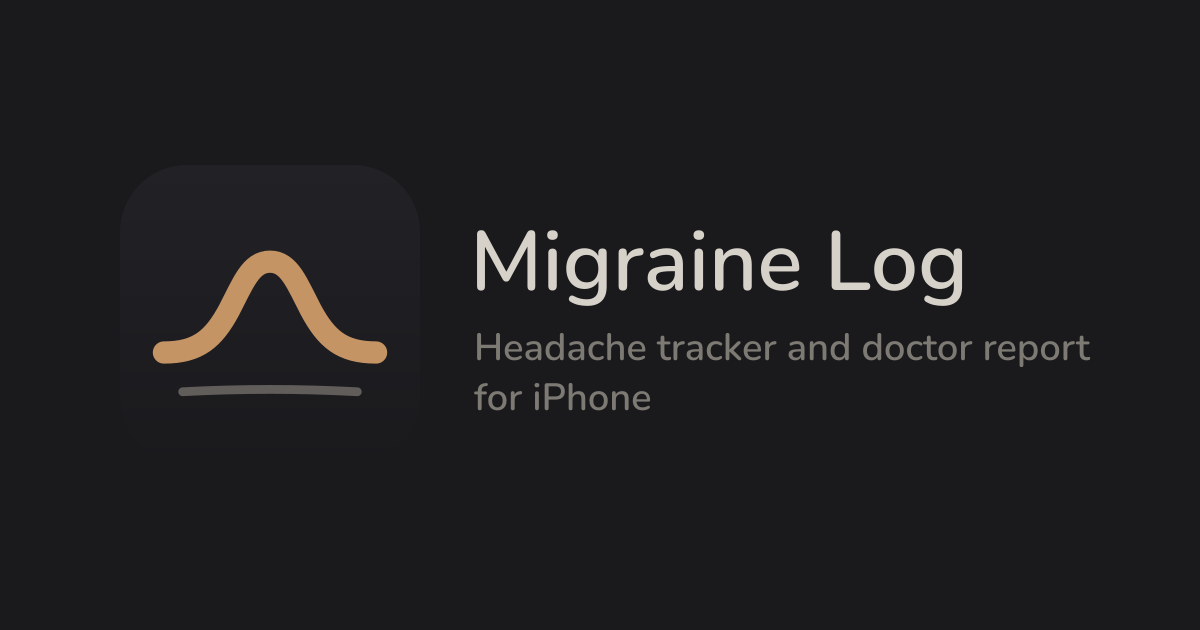
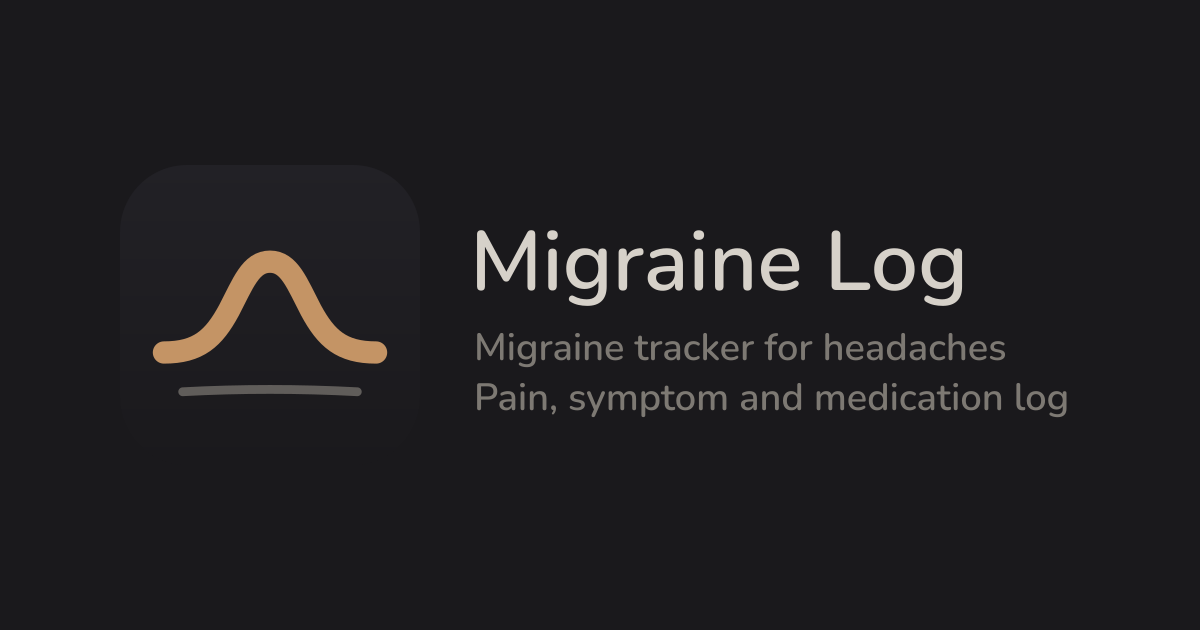
1.0.0 build 1: setup values and the new store name
Fill the Expo projectId, the RevenueCat public iOS key and the ASC app
id. Store name "Migraine Tracker for Headaches", subtitle "Pain, Symptom
& Medication Log", new keywords (98), in store/metadata.md, the website
(title, meta, OG, JSON-LD, App Store link, support and privacy), the OG
image, README and CLAUDE.md. Home screen name stays Migraine Log.

Claude-Session: https://claude.ai/code/session_018oC8ChNyTN1VSWfCEyQFmx

Changed region(s): [[0.4008, 0.6032, 0.8942, 0.6635], [0.4008, 0.5127, 0.925, 0.573]]

diff --git a/docs/index.html b/docs/index.html
@@ -3,8 +3,8 @@
 <head>
 <meta charset="utf-8">
 <meta name="viewport" content="width=device-width, initial-scale=1">
-<title>Migraine Log: Headache Tracker and Doctor Report for iPhone</title>
-<meta name="description" content="Migraine Log is an iPhone headache and migraine tracker. Log an attack in two seconds, see headache days and medication days on a calendar, and bring your doctor a one-page report. Works offline; nothing leaves the phone.">
+<title>Migraine Tracker for Headaches: Pain, Symptom and Medication Log</title>
+<meta name="description" content="Migraine Log is a migraine tracker for headaches on iPhone. Log an attack in two seconds, keep track of pain, symptoms and medications, see headache days on a calendar, and bring your doctor a one-page report. Works offline; nothing leaves the phone.">
 <link rel="canonical" href="https://bkdigitalleads-cmyk.github.io/migrainelog/">
 <link rel="icon" type="image/png" href="icon-512.png">
 <link rel="apple-touch-icon" href="apple-touch-icon.png">
@@ -12,27 +12,28 @@
 <meta name="theme-color" content="#1A191C">
 <meta property="og:type" content="website">
 <meta property="og:site_name" content="Migraine Log">
-<meta property="og:title" content="Migraine Log: Headache Tracker and Doctor Report for iPhone">
-<meta property="og:description" content="Log an attack in two seconds, see your headache days at a glance, and bring your doctor a report they can use. Offline, no account.">
+<meta property="og:title" content="Migraine Tracker for Headaches: Pain, Symptom and Medication Log">
+<meta property="og:description" content="Log an attack in two seconds, keep track of pain, symptoms and medications, see your headache days at a glance, and bring your doctor a report. Offline, no account.">
 <meta property="og:url" content="https://bkdigitalleads-cmyk.github.io/migrainelog/">
 <meta property="og:image" content="https://bkdigitalleads-cmyk.github.io/migrainelog/og-image.png">
-<meta property="og:image:alt" content="The Migraine Log icon, a soft amber wave on a dark tile, next to the words Migraine Log, headache tracker and doctor report for iPhone.">
+<meta property="og:image:alt" content="The Migraine Log icon, a soft amber wave on a dark tile, next to the words Migraine Log, migraine tracker for headaches, pain, symptom and medication log.">
 <meta name="twitter:card" content="summary_large_image">
-<meta name="twitter:title" content="Migraine Log: Headache Tracker and Doctor Report for iPhone">
-<meta name="twitter:description" content="Log an attack in two seconds, see your headache days at a glance, and bring your doctor a report they can use. Offline, no account.">
+<meta name="twitter:title" content="Migraine Tracker for Headaches: Pain, Symptom and Medication Log">
+<meta name="twitter:description" content="Log an attack in two seconds, keep track of pain, symptoms and medications, see your headache days at a glance, and bring your doctor a report. Offline, no account.">
 <meta name="twitter:image" content="https://bkdigitalleads-cmyk.github.io/migrainelog/og-image.png">
-<meta name="twitter:image:alt" content="The Migraine Log icon, a soft amber wave on a dark tile, next to the words Migraine Log, headache tracker and doctor report for iPhone.">
+<meta name="twitter:image:alt" content="The Migraine Log icon, a soft amber wave on a dark tile, next to the words Migraine Log, migraine tracker for headaches, pain, symptom and medication log.">
 <link rel="stylesheet" href="style.css">
 <script type="application/ld+json">
 {
   "@context": "https://schema.org",
   "@type": "SoftwareApplication",
-  "name": "Migraine Log: Headache Tracker",
-  "alternateName": "Migraine Log",
+  "name": "Migraine Tracker for Headaches",
+  "alternateName": ["Migraine Log", "Pain, Symptom & Medication Log"],
   "operatingSystem": "iOS",
   "applicationCategory": "HealthApplication",
-  "description": "An iPhone headache and migraine diary. One tap logs an attack with the time; details can be added later. A calendar shows headache days, headache-free days and medication days, and a one-page PDF report counts headache days, migraine days, attacks of 4 hours or more, medication days by type and preventives tried. Works offline, no account, nothing is uploaded. A personal log, not a diagnostic tool.",
+  "description": "An iPhone headache and migraine diary. One tap logs an attack with the time; pain, symptoms and medications can be added later. A calendar shows headache days, headache-free days and medication days, and a one-page PDF report counts headache days, migraine days, attacks of 4 hours or more, medication days by type and preventives tried. Works offline, no account, nothing is uploaded. A personal log, not a diagnostic tool.",
   "url": "https://bkdigitalleads-cmyk.github.io/migrainelog/",
+  "downloadUrl": "https://apps.apple.com/app/id6827962061",
   "image": "https://bkdigitalleads-cmyk.github.io/migrainelog/icon-512.png",
   "author": { "@type": "Person", "name": "Brian Kershner" },
   "offers": [
@@ -59,9 +60,9 @@
 <body>
 <div class="wrap">
 <a class="brand" href="./"><img src="icon-512.png" width="34" height="34" alt="Migraine Log app icon: one soft amber wave rising and settling over a faint line, on a dark charcoal tile"> Migraine Log</a>
-<h1>Migraine Log: a headache tracker and doctor report for iPhone</h1>
-<p class="tag">Log an attack in two seconds, see your headache days at a glance, and bring your doctor a report they can use. It works offline, and nothing leaves your phone.</p>
-<a class="cta" href="https://apps.apple.com/">Download on the App Store</a>
+<h1>Migraine Log: a migraine tracker for headaches, with a pain, symptom and medication log</h1>
+<p class="tag">Log an attack in two seconds, keep track of your pain, symptoms and medications, see your headache days at a glance, and bring your doctor a report they can use. It works offline, and nothing leaves your phone.</p>
+<a class="cta" href="https://apps.apple.com/app/id6827962061">Download on the App Store</a>
 <p class="small">For iPhone. Logging is free. Migraine Log Pro adds the numbers and the report.</p>
 
 <div class="shots">

diff --git a/docs/privacy.html b/docs/privacy.html
@@ -16,7 +16,7 @@
 <meta property="og:description" content="How Migraine Log handles your data: everything you log stays on your iPhone, nothing is uploaded, there is no account, no ads and no tracking, and purchases are confirmed by RevenueCat with an anonymous id.">
 <meta property="og:url" content="https://bkdigitalleads-cmyk.github.io/migrainelog/privacy.html">
 <meta property="og:image" content="https://bkdigitalleads-cmyk.github.io/migrainelog/og-image.png">
-<meta property="og:image:alt" content="The Migraine Log icon next to the words Migraine Log, headache tracker and doctor report for iPhone.">
+<meta property="og:image:alt" content="The Migraine Log icon next to the words Migraine Log, migraine tracker for headaches, pain, symptom and medication log.">
 <meta name="twitter:card" content="summary">
 <meta name="twitter:title" content="Migraine Log: Privacy Policy">
 <meta name="twitter:description" content="How Migraine Log handles your data: everything you log stays on your iPhone, nothing is uploaded, there is no account, no ads and no tracking, and purchases are confirmed by RevenueCat with an anonymous id.">
@@ -30,7 +30,7 @@
 <h1>Privacy Policy</h1>
 <p class="small">Last updated: October 28, 2026</p>
 
-<p>Migraine Log ("the app") is a headache and migraine diary for iPhone. It is made by Brian Kershner and built so that your health information stays on your device.</p>
+<p>Migraine Log ("the app", on the App Store as Migraine Tracker for Headaches) is a headache and migraine diary for iPhone. It is made by Brian Kershner and built so that your health information stays on your device.</p>
 
 <h2>What you log</h2>
 <p>Attacks, their times and length, severity and pain, symptoms, triggers, medications and doses, headache-free days, notes and the name you may put on a report are saved only in the app's storage on your iPhone. They are not uploaded, synced or sent to us or anyone else. The app has no account system, no server and works offline. It does not use your location, the camera, contacts, health records or the weather.</p>

diff --git a/docs/support.html b/docs/support.html
@@ -16,7 +16,7 @@
 <meta property="og:description" content="Help with Migraine Log: logging an attack fast, adding details later, headache-free days, medications, the doctor report, the CSV and restoring a purchase.">
 <meta property="og:url" content="https://bkdigitalleads-cmyk.github.io/migrainelog/support.html">
 <meta property="og:image" content="https://bkdigitalleads-cmyk.github.io/migrainelog/og-image.png">
-<meta property="og:image:alt" content="The Migraine Log icon next to the words Migraine Log, headache tracker and doctor report for iPhone.">
+<meta property="og:image:alt" content="The Migraine Log icon next to the words Migraine Log, migraine tracker for headaches, pain, symptom and medication log.">
 <meta name="twitter:card" content="summary">
 <meta name="twitter:title" content="Migraine Log: Support">
 <meta name="twitter:description" content="Help with Migraine Log: logging an attack fast, adding details later, headache-free days, medications, the doctor report, the CSV and restoring a purchase.">
@@ -28,7 +28,7 @@
 <div class="wrap">
 <a class="brand" href="./"><img src="icon-512.png" width="34" height="34" alt="Migraine Log app icon: one soft amber wave rising and settling over a faint line, on a dark charcoal tile"> Migraine Log</a>
 <h1>Support</h1>
-<p>Migraine Log is a headache and migraine diary for iPhone: one tap when an attack starts, details when you feel better, and a report for your doctor.</p>
+<p>Migraine Log (on the App Store as Migraine Tracker for Headaches) is a headache and migraine diary for iPhone: one tap when an attack starts, pain, symptoms and medications when you feel better, and a report for your doctor.</p>
 
 <h3>How do I log an attack?</h3>
 <p>Tap Attack started on the Log screen. The time is saved. Mild, Moderate and Severe under the button are optional. When it is over, tap Attack over. Started one by mistake? Tap Started by mistake under the clock. Closed it too early? Tap Not over yet right after.</p>

diff --git a/store/icon.js b/store/icon.js
@@ -151,8 +151,8 @@ async function write() {
   const og = `<svg width="1200" height="630" xmlns="http://www.w3.org/2000/svg">
     <rect width="1200" height="630" fill="${ROOM}"/>
     <path d="${textPath(NUNITO, 'Migraine Log', 84, 470, 290)}" fill="${INK}"/>
-    <path d="${textPath(NUNITO, 'Headache tracker and doctor report', 38, 474, 360)}" fill="${SOFT}"/>
-    <path d="${textPath(NUNITO, 'for iPhone', 38, 474, 410)}" fill="${SOFT}"/>
+    <path d="${textPath(NUNITO, 'Migraine tracker for headaches', 38, 474, 360)}" fill="${SOFT}"/>
+    <path d="${textPath(NUNITO, 'Pain, symptom and medication log', 38, 474, 410)}" fill="${SOFT}"/>
   </svg>`;
   await sharp(Buffer.from(og)).composite([{ input: rounded, left: 120, top: 165 }]).png().toFile(out('docs/og-image.png'));
 }

diff --git a/store/metadata.md b/store/metadata.md
@@ -2,28 +2,28 @@
 
 Everything here is pasted into App Store Connect by Brian and Cowork. No em dashes anywhere, no brand words, no drug trademarks, no "Unlock", "Premium", "Seamless", "Effortless", "Welcome", "Let's" or exclamation marks.
 
-App record: bundle id com.bwk.migrainelog, Expo project bkdeveloper123/migrainelog. ASC app id, Expo projectId and the RevenueCat public key are still placeholders (eas.json `ascAppId`, app.json `extra.eas.projectId` and `extra.revenueCatApiKeyIos`, all starting `TODO_COWORK_`); Cowork fills them before the first build.
+App record: bundle id com.bwk.migrainelog, ASC app id 6827962061 (https://apps.apple.com/app/id6827962061, eas.json `ascAppId`), Expo project bkdeveloper123/migrainelog (projectId 3c447768-1e8c-409d-8dca-136dddd01f66, app.json `extra.eas.projectId`), RevenueCat public iOS key in app.json `extra.revenueCatApiKeyIos`.
 
 ## Name (30/30)
-Migraine Log: Headache Tracker
+Migraine Tracker for Headaches
 
-("Migraine & Headache Tracker" and "Migraine Tracker: Headache Log" are taken.) Home screen name (app.json `name`): Migraine Log
+Home screen name and in-app name (app.json `name`): Migraine Log. The names with Log or Tracker in both orders ("Migraine Log: Headache Tracker", "Migraine Tracker: Headache Log", "Migraine & Headache Tracker") were already taken in App Store Connect.
 
-## Subtitle (29/30)
-Symptom Diary & Doctor Report
+## Subtitle (30/30)
+Pain, Symptom & Medication Log
 
-## Keywords (96/100)
-migraines,headaches,pain,aura,trigger,medication,calendar,attack,relief,neurologist,journal,days
+## Keywords (98/100)
+health,medicine,aura,chronic,doctor,report,diary,journal,trigger,pill,calendar,relief,vertigo,days
 
-Rule: no word from the name or subtitle (migraine, log, headache, tracker, symptom, diary, doctor, report), no brand and no drug trademark. "migraines" and "headaches" are the plurals of name words; Apple says it matches plurals on its own, so they could be swapped for two new words later ("cluster" and "tension" are candidates) if Brian wants to test that in 1.0.1.
+Rule: no word from the name or subtitle (migraine, tracker, for, headaches, pain, symptom, medication, log), no brand and no drug trademark. Apple combines words across the name, subtitle and keywords, so "doctor report", "migraine diary", "headache journal", "pain relief", "medication calendar" and "pill tracker" are all covered without repeating a word.
 
-Research behind them (Oct 27 to 28): "migraine tracker" (Apple popularity 32), "headache tracker" (30), "symptom tracker" (34). Two strong incumbents; ranks 3 to 12 have 0 to 259 ratings.
+Research behind them (Oct 27 to 28): "migraine tracker" (Apple popularity 32), "headache tracker" (30), "medication tracker" (35), "symptom tracker" (34); in ASOMobile the diary, journal and log phrases sit at the popularity floor, so the name and subtitle carry the tracker phrases and diary and journal moved to the keywords. Two strong incumbents; ranks 3 to 12 have 0 to 259 ratings.
 
-## Promotional text (157/170)
-Tap once when an attack starts. Add details later. See headache days, migraine days and medication days, and bring your doctor a report. Nothing is uploaded.
+## Promotional text (170/170)
+Tap once when an attack starts. Add pain, symptoms and medications later. See your headache days and medication days, and bring your doctor a report. Nothing is uploaded.
 
 ## Description
-Log a migraine or headache in two seconds, see your headache days and medication days at a glance, and bring your doctor a report they can use. Migraine Log works offline, and nothing you log leaves your iPhone.
+Log a migraine or headache in two seconds, see your headache days and medication days at a glance, and bring your doctor a report they can use. Keep track of your pain, your symptoms and the medications you take, without typing when it hurts. Migraine Log works offline, and nothing you log leaves your iPhone.
 
 ONE TAP WHEN IT STARTS
 • One huge button, low on the screen where your thumb is: Attack started saves the time
@@ -86,7 +86,7 @@ Data Not Collected. Everything the person logs stays in the app's storage on the
 - `migraine_pro_weekly`: auto-renewing weekly, $4.99/week, 3-day free trial (introductory offer). RevenueCat package `$rc_weekly`. Preselected and listed first on the onboarding paywall.
 - `migraine_pro_yearly`: auto-renewing yearly, $29.99/year, no trial. RevenueCat package `$rc_annual`. Preselected and listed first on the in-app paywall as "Yearly, best value".
 - No lifetime product.
-- RevenueCat: entitlement `pro`, offering `default` with the two packages above. Public iOS key in app.json `extra.revenueCatApiKeyIos` (placeholder now; the app runs with purchases off until it starts with `appl_`).
+- RevenueCat: entitlement `pro`, offering `default` with the two packages above. Public iOS key in app.json `extra.revenueCatApiKeyIos` (set; the app runs with purchases off whenever it does not start with `appl_`).
 - Prices and trial text in the app always come from StoreKit.
 
 ## App Review note (paste into ASC, Notes)
@@ -105,7 +105,7 @@ To test: tap Attack started, tap Moderate, tap Attack over, then Add details. Op
 2. Calendar: October shaded by pain, headache-free rings, medication dots: "See your headache days at a glance"
 3. Monthly numbers: headache days, migraine days, 4-hour days and the triptan day count: "The numbers your doctor asks for"
 4. Doctor report: the report preview (Pro, no SAMPLE): "A one-page report for your doctor and insurer"
-5. Details later: the details screen with pain, symptoms and medication: "Add details when you feel better"
+5. Details later: the details screen with pain, symptoms and medication: "Pain, symptoms and medications, when you feel better"
 6. Private and offline: Home with an attack open in the dark theme, airplane mode in the status bar: "Private. Offline. Nothing leaves your phone"
 
 Renders of every screen are in docs/design/after for reference; the store shots come from a real device.

diff --git a/NOTES.md b/NOTES.md
@@ -2,6 +2,15 @@
 
 Newest first. One entry per commit: date, version/build, what changed and why, and how it was checked.
 
+- 2026-10-28: 1.0.0 build 1, setup values and the new store name (same branch claude/migraine-1.0.0, PR #1, not merged, no build; this branch push does not build, merging to main will, now that the Expo project is connected). Brian finished the Apple, RevenueCat and Expo setup and asked for the name, subtitle and keywords to change after the keyword check.
+  - Placeholders filled: app.json `extra.eas.projectId` 3c447768-1e8c-409d-8dca-136dddd01f66, app.json `extra.revenueCatApiKeyIos` (the public `appl_` SDK key, so purchases are on), eas.json `ascAppId` 6827962061. Owner bkdeveloper123, slug migrainelog, bundle id com.bwk.migrainelog and build number 1 unchanged. `ios.appStoreUrl` not added: the rating prompt uses StoreKit's requestReview and the share sheet only shares the PDF and CSV, so nothing reads it.
+  - Store name: "Migraine Tracker for Headaches" (30), subtitle "Pain, Symptom & Medication Log" (30), keywords health,medicine,aura,chronic,doctor,report,diary,journal,trigger,pill,calendar,relief,vertigo,days (98). Why: the names with Log or Tracker in both orders were taken in App Store Connect, and in ASOMobile the diary, journal and log phrases sit at the popularity floor while "medication tracker" is 35 and "symptom tracker" 34. Home screen and in-app name stay "Migraine Log"; Medical, then Health & Fitness.
+  - store/metadata.md: name, subtitle, keywords, the rule and research notes, the app record line; the description's opening paragraph now also says, in a plain sentence, that you keep track of your pain, your symptoms and your medications (it still leads with the outcomes); promotional text (170) says the same; screenshot 5's caption is "Pain, symptoms and medications, when you feel better".
+  - Website: index.html title, description, OG and Twitter titles and descriptions, image alt text, JSON-LD name (alternateName Migraine Log and the subtitle, downloadUrl), the h1 and the tagline; the App Store button now goes to https://apps.apple.com/app/id6827962061. support.html and privacy.html say the app is on the App Store as Migraine Tracker for Headaches, and their image alt text matches. docs/og-image.png redrawn by store/icon.js with the new two lines under "Migraine Log" (the other images it writes came out byte for byte the same). README.md and CLAUDE.md updated.
+  - Checked: npx tsc --noEmit clean; npm test 28 pass; npx expo export --platform ios bundles (913 modules); npx expo config --type introspect shows the projectId, the `appl_` key, owner bkdeveloper123, ios.entitlements {}, no usage strings, the quick action in UIApplicationShortcutItems. Counts measured with node (30, 30, 98); no keyword repeats a name or subtitle word. JSON-LD parses. Copy grep on every added line: no em dashes, exclamation marks or banned words.
+  - Noticed, not changed:
+    - The "Noticed" line in the first entry about the plurals "migraines" and "headaches" in the keywords no longer applies; the new keywords have no plurals of name words.
+    - GitHub Pages still has to be switched on (Settings, Pages, main, /docs) before the privacy and support links work.
 - 2026-10-28: 1.0.0 build 1, polish pass (same branch claude/migraine-1.0.0, PR #1, not merged, no build). Brian's review of the renders found template tells; these six were fixed, nothing else. No new features; purchases.ts, product ids, gates, the schema, the name, subtitle and keywords, the report PDF layout untouched.
   - Home: the attack button is the hero, centered in the free space with room around it. Above it a quiet two-line summary in the small size ("15 headache days this month, 12 with medication", "Last attack yesterday, 8 am"; new pure helpers hourLabel and whenShort in src/days.ts, with a check); under it "Add a past attack" and "All attacks". The recent-attacks list moved to All attacks, whose rows now carry "Add details" when an attack has none. Empty state: the button centered and one line above it ("Tap once when one starts. Details can wait."), nothing else. The open-attack timer screen keeps its layout.
   - Illustrations: the document drawing is gone from the Report screen and both paywalls, and the phone, calendar, document, "3 days free" slip and trial-days drawings are gone from onboarding. Onboarding is full-bleed type: one large line, one line under it, the dots and Continue. No abstract amber shape was added; type and space carry it. src/ui/Drawings.tsx keeps only MonthAtAGlance (the calendar's and the numbers' Pro notes, which the brief said not to change beyond depth and spacing).

diff --git a/CLAUDE.md b/CLAUDE.md
@@ -4,8 +4,8 @@
 
 App #12 in Brian's iOS app portfolio (seller bkdigitalleads-cmyk). Expo SDK 57, React Native, TypeScript, expo-sqlite, RevenueCat, expo-notifications (local only, one trial reminder), expo-quick-actions (one home-screen quick action), expo-print for the report PDF. Engine forked from Image to Text (main at 9714918, Oct 28, 2026), which came from Pumping and Odo 1.0.6. The Vision OCR module was dropped; there are no local native modules.
 
-- App Store name: "Migraine Log: Headache Tracker". Subtitle "Symptom Diary & Doctor Report". Home screen name: "Migraine Log". Bundle ID: com.bwk.migrainelog. Expo slug and scheme: migrainelog. GitHub: bkdigitalleads-cmyk/migrainelog.
-- Not set up yet (placeholders starting `TODO_COWORK_`, filled by Cowork before the first build): App Store app ID (eas.json `ascAppId`), Expo projectId (app.json `extra.eas.projectId`, project bkdeveloper123/migrainelog), RevenueCat public iOS key (app.json `extra.revenueCatApiKeyIos`). The app runs with purchases off while that key does not start with `appl_`.
+- App Store name: "Migraine Tracker for Headaches". Subtitle "Pain, Symptom & Medication Log". Home screen name and in-app name: "Migraine Log". Category Medical, secondary Health & Fitness. ASC app id 6827962061 (https://apps.apple.com/app/id6827962061). Bundle ID: com.bwk.migrainelog. Expo slug and scheme: migrainelog. GitHub: bkdigitalleads-cmyk/migrainelog.
+- Set up (Oct 28, 2026): App Store app ID in eas.json `ascAppId`, Expo projectId in app.json `extra.eas.projectId` (project bkdeveloper123/migrainelog), RevenueCat public iOS key in app.json `extra.revenueCatApiKeyIos` (public SDK key, starts with `appl_`, so purchases are on). The app runs with purchases off whenever that key does not start with `appl_`.
 - Not in the store yet. Version 1.0.0 build 1 is the first version (branch claude/migraine-1.0.0, PR not merged, no build).
 - What it is: a headache and migraine diary for someone in pain. One tap logs an attack with the time; details come later; headache-free days are logged too; a calendar, monthly numbers and a doctor and insurance report (PDF) count headache days, migraine days, attacks of 4 hours or more, medication days by type and the preventives tried. No account, no network, nothing leaves the phone.
 - Medical line, everywhere it appears (Settings About, the website, the App Review note): a personal log that does not diagnose, treat, or give medical or dosing advice, does not predict attacks; talk to your doctor. Never add dose suggestions, dosing math, predictions, weather or any network feature without Brian asking.

diff --git a/README.md b/README.md
@@ -1,6 +1,6 @@
 # migrainelog
 
-Migraine Log: Headache Tracker for iPhone. One tap logs an attack with the time; details can wait until you feel better. Mark headache-free days, see a calendar shaded by pain, count headache days, migraine days, long attacks and medication days by type, and share a one-page report with your doctor or insurer. Works offline, and nothing leaves the phone. A personal log, not medical advice.
+Migraine Log for iPhone, on the App Store as "Migraine Tracker for Headaches" (subtitle "Pain, Symptom & Medication Log"). One tap logs an attack with the time; pain, symptoms and medications can wait until you feel better. Mark headache-free days, see a calendar shaded by pain, count headache days, migraine days, long attacks and medication days by type, and share a one-page report with your doctor or insurer. Works offline, and nothing leaves the phone. A personal log, not medical advice.
 
 Expo SDK 57, React Native, TypeScript, expo-sqlite, RevenueCat, expo-print. See CLAUDE.md for how shipping works and NOTES.md for the change log.
 
